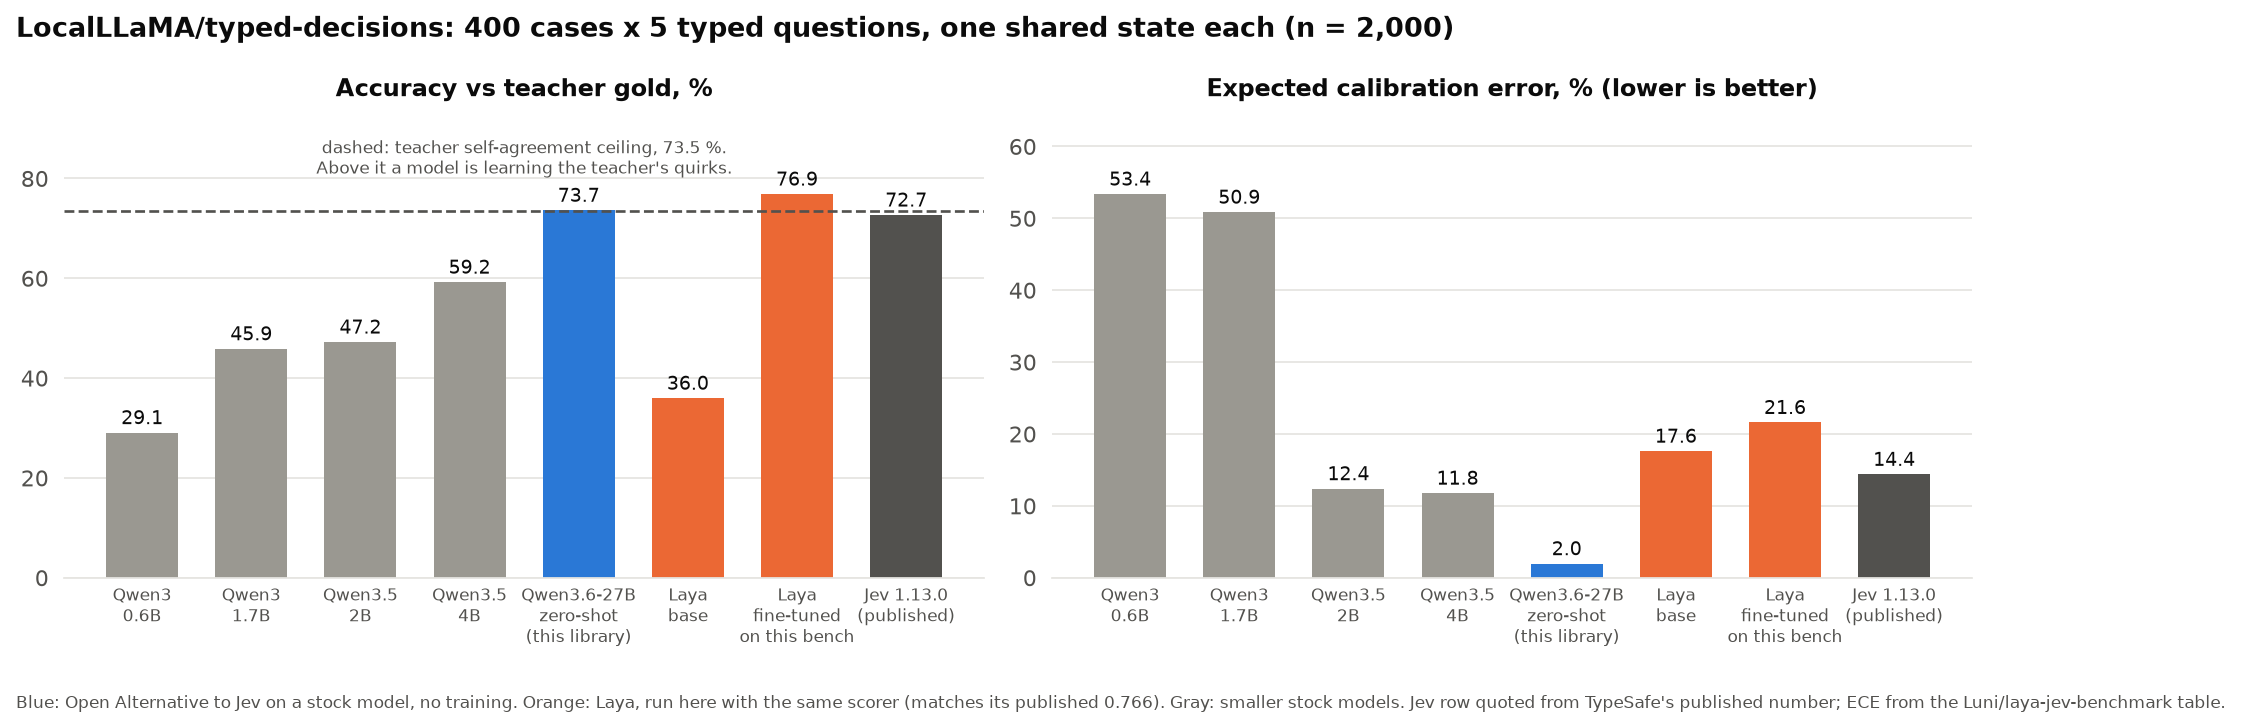
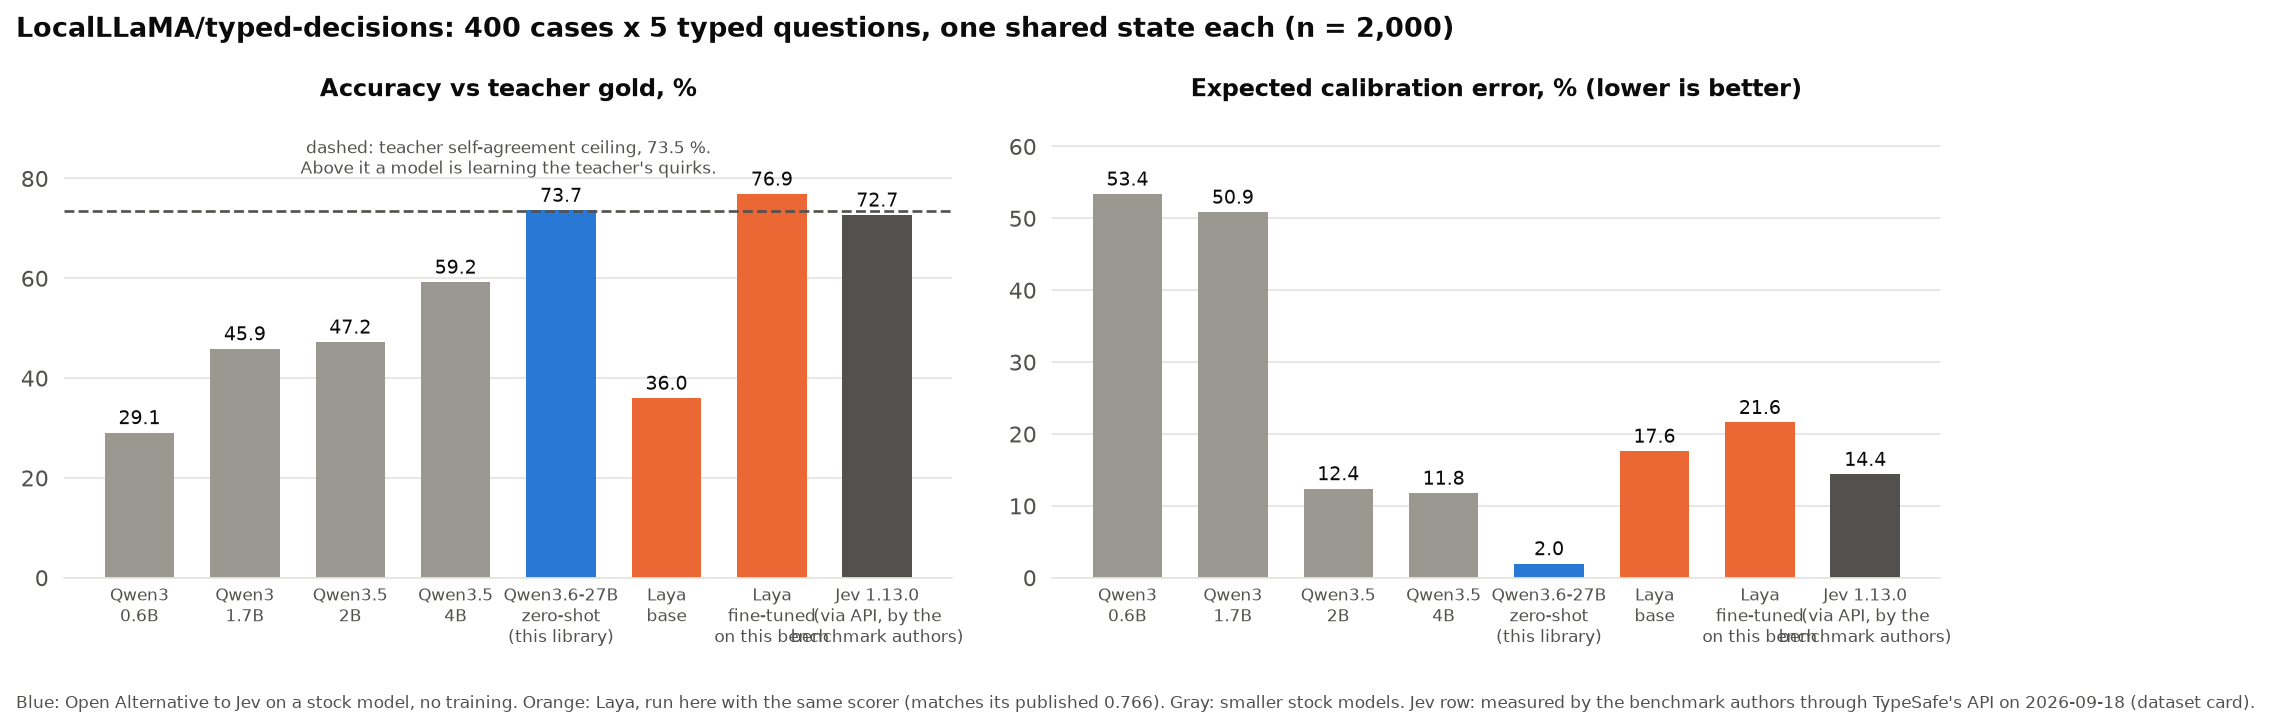
Jev row provenance: measured by the typed-decisions authors via TypeSafe's API, not a TypeSafe publication; headline adds latency, KL and Brier

diff --git a/benchmarks/scripts/make_figures.py b/benchmarks/scripts/make_figures.py
@@ -152,7 +152,7 @@ for label, key, color in entries:
     s = pick(key)
     if s:
         labels.append(label); acc.append(100 * s["overall"]["acc"]); ece.append(100 * s["overall"]["ece"]); colors.append(color)
-labels.append("Jev 1.13.0\n(published)"); acc.append(72.7); ece.append(14.4); colors.append(INK2)
+labels.append("Jev 1.13.0\n(via API, by the\nbenchmark authors)"); acc.append(72.7); ece.append(14.4); colors.append(INK2)
 fig, axes = plt.subplots(1, 2, figsize=(12.5, 4.2))
 x = range(len(labels))
 for ax, vals, title, fmt in [(axes[0], acc, "Accuracy vs teacher gold, %", "{:.1f}"), (axes[1], ece, "Expected calibration error, % (lower is better)", "{:.1f}")]:
@@ -167,7 +167,7 @@ axes[0].axhline(73.5, color=INK2, linestyle="--", linewidth=1.2)
 axes[0].text(3.5, 88, "dashed: teacher self-agreement ceiling, 73.5 %.\nAbove it a model is learning the teacher's quirks.", fontsize=7.5, color=INK2, ha="center", va="top")
 fig.suptitle("LocalLLaMA/typed-decisions: 400 cases x 5 typed questions, one shared state each (n = 2,000)", x=0.01, ha="left", fontsize=12, fontweight="bold", color=INK)
 fig.text(0.01, -0.05, "Blue: Open Alternative to Jev on a stock model, no training. Orange: Laya, run here with the same scorer (matches its published 0.766). "
-         "Gray: smaller stock models. Jev row quoted from TypeSafe's published number; ECE from the Luni/laya-jev-benchmark table.", fontsize=7.5, color=INK2)
+         "Gray: smaller stock models. Jev row: measured by the benchmark authors through TypeSafe's API on 2026-09-18 (dataset card).", fontsize=7.5, color=INK2)
 fig.tight_layout()
 fig.savefig(OUT / "typed_decisions.png", dpi=160, bbox_inches="tight")
 plt.close(fig)
@@ -206,10 +206,10 @@ for label, key, color, dx, dy in [("Qwen3-0.6B", "td_qwen3-0_6b_packed_3", GRAY,
     s = pick(key)
     if s:
         td_points.append((label, s["ms_per_case_p50"], 100 * s["overall"]["acc"], color, dx, dy))
-td_points.append(("Jev 1.13.0 (published)", 710, 72.7, INK2, 8, -10))
+td_points.append(("Jev 1.13.0 (API, measured by benchmark authors)", 710, 72.7, INK2, 8, -10))
 scatter(td_points, "typed-decisions: accuracy vs latency per case (5 decisions)", "typed_decisions_scatter.png",
         "ms per case, p50, log scale", "Qwen and Laya measured here on one H200 MIG slice (Qwen3.6-27B in 8-bit with fallback kernels; Laya is a 421M encoder). "
-        "Jev: TypeSafe's published accuracy and latency on its own infrastructure.", (20, 85), hline=(73.5, "teacher self-agreement ceiling 73.5 %"))
+        "Jev: accuracy and p50 latency measured by the benchmark authors through TypeSafe's API (2026-09-18), so its latency includes the network round-trip.", (20, 85), hline=(73.5, "teacher self-agreement ceiling 73.5 %"))
 
 race_points = []
 race27 = race["C4"]

diff --git a/README.md b/README.md
@@ -7,10 +7,12 @@ An open alternative to the idea behind TypeSafe's Jev, running on your own GPU w
 Python package `open-alternative-jev`, import name `so1` ("System One").
 Also known as: open Jev, Jev alternative, open-source System One model.
 
-> **Beats Jev's published score on the community benchmark, with no training.** On `LocalLLaMA/typed-decisions`
-> (400 cases, 2,000 typed decisions), a stock Qwen3.6-27B through this library scores **73.7 % accuracy at ECE 0.020**,
-> against TypeSafe's published **72.7 % at ECE 0.144** for Jev 1.13.0: higher accuracy and 7x better calibration, zero-shot.
-> Measured with the same third-party scorer that reproduces Laya's published numbers exactly. [Details and caveats below.](#against-jev-and-laya-on-a-shared-benchmark)
+> **Beats Jev on the community benchmark, with no training.** On `LocalLLaMA/typed-decisions` (400 cases, 2,000
+> typed decisions), a stock Qwen3.6-27B through this library scores **73.7 % accuracy, KL to gold 0.27, ECE 0.020, 582 ms
+> per case** (one H200 MIG slice, 8-bit). Jev 1.13.0, measured by the benchmark's authors through TypeSafe's API on
+> 2026-09-18: **72.7 %, KL 1.44, ECE 0.144, 710 ms per case**. Higher accuracy, probabilities five times closer to the
+> gold distribution, and lower latency, zero-shot. Same third-party scorer, which reproduces Laya's published numbers
+> exactly. [Details and caveats below.](#against-jev-and-laya-on-a-shared-benchmark)
 This replaces the library, not the endpoint: it is a Python package you call in-process, and there is no HTTP server
 or drop-in API for the official Jev SDK.
 
@@ -120,7 +122,9 @@ generated text, and the same calibration tools.
 state plus 5 typed questions (yes/no, choice, ordered score), gold built from a teacher model. Everything
 below is scored with the same code as the third-party [Luni/laya-jev-benchmark](https://huggingface.co/datasets/Luni/laya-jev-benchmark)
 table; we verified the scorer by running Laya ourselves and reproducing its published numbers exactly
-(base 0.360 / ECE 0.176, fine-tuned 0.766 / ECE 0.213). Zero-shot, no training, `benchmarks/scripts/typed_decisions.py`.
+(base 0.360 / ECE 0.176, fine-tuned 0.766 / ECE 0.213). The Jev row is not a TypeSafe publication: it is the
+measurement the benchmark's authors took through TypeSafe's API (`jev-latest`, reporting itself as 1.13.0) on
+2026-09-18, all 400 cases. Zero-shot, no training, `benchmarks/scripts/typed_decisions.py`.
 
 | Model | Training | Source | Accuracy | ECE | Brier | ms / case (5 decisions) |
 |---|---|---|---:|---:|---:|---:|
@@ -129,7 +133,7 @@ table; we verified the scorer by running Laya ourselves and reproducing its publ
 | Qwen3.5-2B | zero-shot | measured here | 47.3 % | 0.124 | 0.269 | 85 |
 | Qwen3.5-4B | zero-shot | measured here | 59.3 % | 0.118 | 0.164 | 105 |
 | Laya base, 421M | trained on its own data, not this benchmark | measured here | 36.0 % | 0.176 | 0.329 | 23 |
-| Jev 1.13.0 | proprietary, unknown | published by TypeSafe | 72.7 % | 0.144 | | 710 |
+| Jev 1.13.0 | proprietary, unknown | measured by the benchmark authors via TypeSafe's API, 2026-09-18 | 72.7 % | 0.144 | 0.148 | 710 |
 | **Qwen3.6-27B (8-bit), Open Alternative to Jev** | **zero-shot** | **measured here** | **73.7 %** | **0.020** | 0.113 | 582 |
 | Teacher self-agreement ceiling | | | 73.5 % | | | |
 | Laya fine-tuned, 421M | fine-tuned on this benchmark's train split | measured here | 76.9 % | 0.216 | 0.066 | 23 |
@@ -138,20 +142,24 @@ table; we verified the scorer by running Laya ourselves and reproducing its publ
 
 ![typed-decisions: accuracy vs latency](benchmarks/figures/typed_decisions_scatter.png)
 
-- **A stock 27B with no training matches the published Jev number** (73.7 % vs 72.7 %) and sits on the
-  teacher self-agreement ceiling (73.5 %). The benchmark's own card says a score much above 0.75 means a
-  model has learned the teacher's quirks rather than the task.
-- **Its confidence is the best-calibrated in the table** (ECE 0.020, seven times lower than Jev's
-  published 0.144 and ten times lower than fine-tuned Laya's 0.216).
+- **A stock 27B with no training edges the Jev measurement** (73.7 % vs 72.7 %, a one-point gap that is
+  within noise on 2,000 decisions) and sits on the teacher self-agreement ceiling (73.5 %). The benchmark's
+  own card says a score much above 0.75 means a model has learned the teacher's quirks rather than the task.
+- **Its probabilities track the gold distribution far better.** KL to gold 0.27 against Jev's 1.44 and
+  Brier 0.113 against 0.148. The card itself warns that ECE alone misleads here (a base-rate "prior" that
+  reads nothing has ECE 0.088) and asks for KL and Brier; on those, the stock 27B is the best general model
+  in the table. Its ECE (0.020) is also the lowest of any model that reads the input.
+- **Latency.** 582 ms per case here, p50, on one H200 MIG slice with 8-bit weights and fallback kernels;
+  Jev's 710 ms is the API round-trip measured by the benchmark authors. Different conditions, so read it
+  as "the same order of magnitude", not as a race.
 - **Laya fine-tuned scores higher and is worse everywhere else.** It was trained on this benchmark's train
   split, exceeds the ceiling, and its probabilities are badly calibrated. Laya base, the checkpoint that has
   not seen the task, scores 36 %.
 - **Packing helps here.** Five questions about one state answered in one pass beat the same questions asked
   separately on every model of 2B and up (27B: 73.7 % vs 72.7 %; 4B: 59.3 % vs 56.0 %). Below 2B the
   opposite holds and accuracy collapses either way: this is a 4B-and-up method.
-- **Latency** is on one H200 MIG slice with Transformers and fallback kernels (see the note on the model's
-  hybrid attention); Laya is a 421M encoder and is 25x faster per case. Jev's 710 ms is its published
-  number on its own infrastructure.
+- **Laya is a 421M encoder and is 25x faster per case** than the 27B; that is the trade the small trained
+  models make.
 - Temperature scaling fitted on 200 train cases to the teacher's soft distributions improves Brier and KL
   (27B: 0.113 to 0.074) but raises hard-label ECE (0.020 to 0.135), so the calibrated rows are in
   `benchmarks/results/td_*_cal_*` rather than in this table.

diff --git a/benchmarks/docs/RESULTS.md b/benchmarks/docs/RESULTS.md
@@ -222,7 +222,7 @@ models went through the same code, zero-shot (`results/td_*`).
 | Qwen3.5-4B, packed | 59.3 % | 0.118 | 0.164 | 0.38 | 105 |
 | Qwen3.5-4B, separate | 56.0 % | 0.215 | 0.262 | 0.55 | 229 |
 | Laya base (measured) | 36.0 % | 0.176 | 0.329 | 0.55 | 23 |
-| Jev 1.13.0 (published) | 72.7 % | 0.144 | | | 710 |
+| Jev 1.13.0 (measured by the benchmark authors via TypeSafe's API, 2026-09-18) | 72.7 % | 0.144 | 0.148 | 1.44 | 710 |
 | Qwen3.6-27B 8-bit, separate | 72.7 % | 0.063 | 0.120 | 0.36 | 1234 |
 | **Qwen3.6-27B 8-bit, packed** | **73.7 %** | **0.020** | 0.113 | 0.27 | 582 |
 | Teacher self-agreement | 73.5 % | | | | |
@@ -230,10 +230,16 @@ models went through the same code, zero-shot (`results/td_*`).
 
 What it says:
 
-- A stock 27B with nothing trained lands on the teacher ceiling and one point above the published Jev row.
+- A stock 27B with nothing trained lands on the teacher ceiling and one point above the Jev row. That row is
+  not a TypeSafe publication: the benchmark's authors ran all 400 cases through TypeSafe's API on 2026-09-18
+  (`jev-latest`, reporting itself as 1.13.0; p50 710 ms per case, $0.016 in total). On the distribution
+  metrics the card asks readers to prefer over ECE, the gap is large: KL to gold 0.27 against Jev's 1.44,
+  Brier 0.113 against 0.148. Jev commits hard to the right label; the stock 27B reproduces the teacher's
+  spread.
   Per workflow it is 65.0 % on agent-trace observability (the hardest, teacher ceiling 0.56 on its urgency
   question), 77.6 % customer service, 77.4 % invoice processing, 74.6 % security incidents.
-- Its ECE of 0.020 is the lowest in the table by a wide margin. Fine-tuned Laya gets the highest accuracy,
+- Its ECE of 0.020 is the lowest in the table by a wide margin, with the caveat from the card that a base-rate
+  prior which reads nothing scores ECE 0.088. Fine-tuned Laya gets the highest accuracy,
   above the ceiling, by fitting the teacher's distribution (best Brier and KL) while its argmax confidence is
   badly calibrated. Those are two different things to be good at, and the benchmark card asks for both.
 - Packing helps on this benchmark for every model of 2B and up (27B +1.0 point, 4B +3.3 points, 2B is the
@@ -243,8 +249,8 @@ What it says:
   base, which has never seen the task, scores 36 %. Small models need training for this; large ones do not.
 - Latencies are wall-clock per case on one H200 MIG slice. Laya is a 421M encoder and is 25x faster than
   the 27B; the 27B here runs 8-bit with fallback kernels for its linear-attention layers, so its absolute
-  time is far from what a served deployment would see. Jev's 710 ms is a published figure on TypeSafe's
-  infrastructure.
+  time is far from what a served deployment would see. Jev's 710 ms is the API round-trip the benchmark
+  authors measured, network included. The two are the same order of magnitude and not a controlled race.
 - Temperature fitted on 200 train cases against the soft gold (T = 2.0 for the 27B) improves Brier 0.113 to
   0.074 and KL 0.27 to 0.15 but raises hard-label ECE from 0.020 to 0.135: matching a soft teacher
   distribution and being calibrated on the argmax are different objectives. Both sets of numbers are in
@@ -260,8 +266,8 @@ What it says:
 - Individual answers depend on their neighbours in 6 to 9 % of cases, three times the numerical noise
   floor, without moving accuracy.
 - Raw probabilities are over-confident by about 5 points and one cross-validated scalar fixes most of it.
-- On the community benchmark for this task, a stock 27B zero-shot matches the published Jev accuracy with
-  far better calibration; a small model fine-tuned on the benchmark scores higher but past the point where
+- On the community benchmark for this task, a stock 27B zero-shot matches Jev's measured accuracy with
+  probabilities far closer to the gold distribution; a small model fine-tuned on the benchmark scores higher but past the point where
   the benchmark's authors say the score means anything.
 - Not measured: a generation-with-reasoning baseline (the comparison TypeSafe's charts make), other model
   families, BF16 versus int8 for the same checkpoint, and anything about how Jev itself works. The pilot
